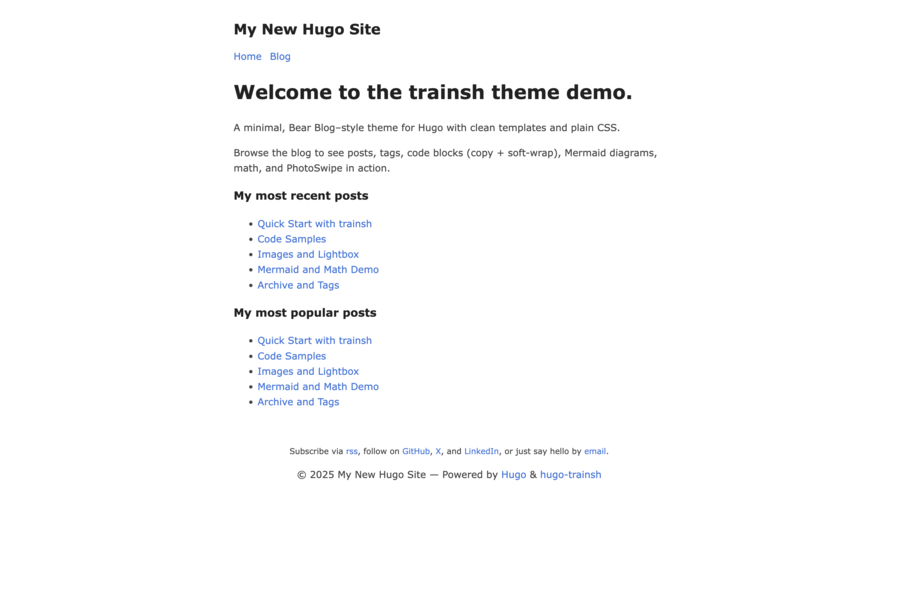
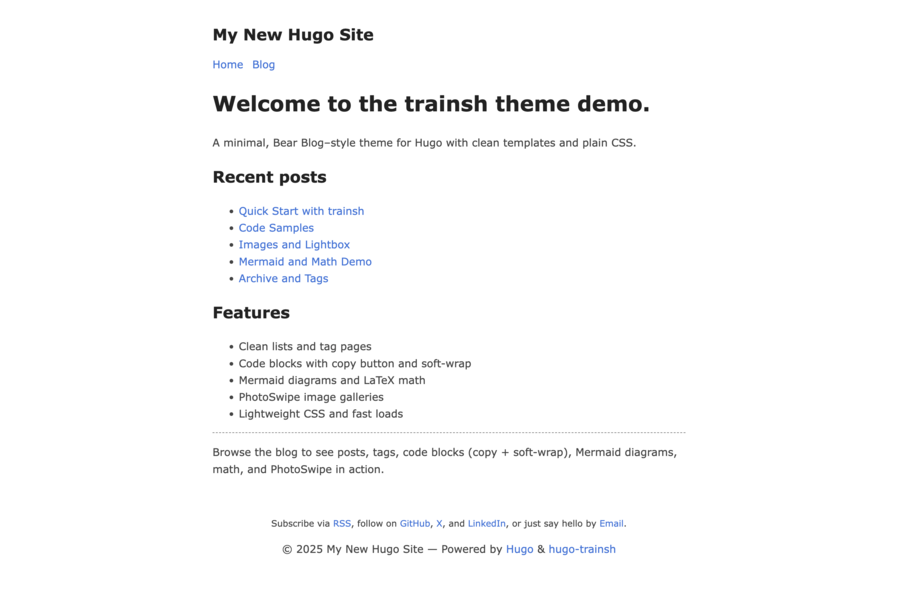
Improve homepage text and update recent posts shortcode heading to h2

diff --git a/layouts/shortcodes/recent-posts.html b/layouts/shortcodes/recent-posts.html
@@ -3,7 +3,7 @@
 {{- $sections := default (slice "posts") site.Params.mainSections -}}
 {{- $posts := where site.RegularPages "Section" "in" $sections -}}
 
-<h3>{{ $title }}</h3>
+<h2>{{ $title }}</h2>
 <ul>
   {{- range first (int $limit) ($posts.ByDate.Reverse) -}}
     <li><a href="{{ .RelPermalink }}">{{ .Title }}</a></li>

diff --git a/exampleSite/content/_index.md b/exampleSite/content/_index.md
@@ -8,6 +8,16 @@ draft = false
 
 A minimal, Bear Blog–style theme for Hugo with clean templates and plain CSS.
 
-Browse the blog to see posts, tags, code blocks (copy + soft-wrap), Mermaid diagrams, math, and PhotoSwipe in action.
-
 {{< recent-posts >}}
+
+## Features
+
+- Clean lists and tag pages
+- Code blocks with copy button and soft-wrap
+- Mermaid diagrams and LaTeX math
+- PhotoSwipe image galleries
+- Lightweight CSS and fast loads
+
+---
+
+Browse the blog to see posts, tags, code blocks (copy + soft-wrap), Mermaid diagrams, math, and PhotoSwipe in action.
